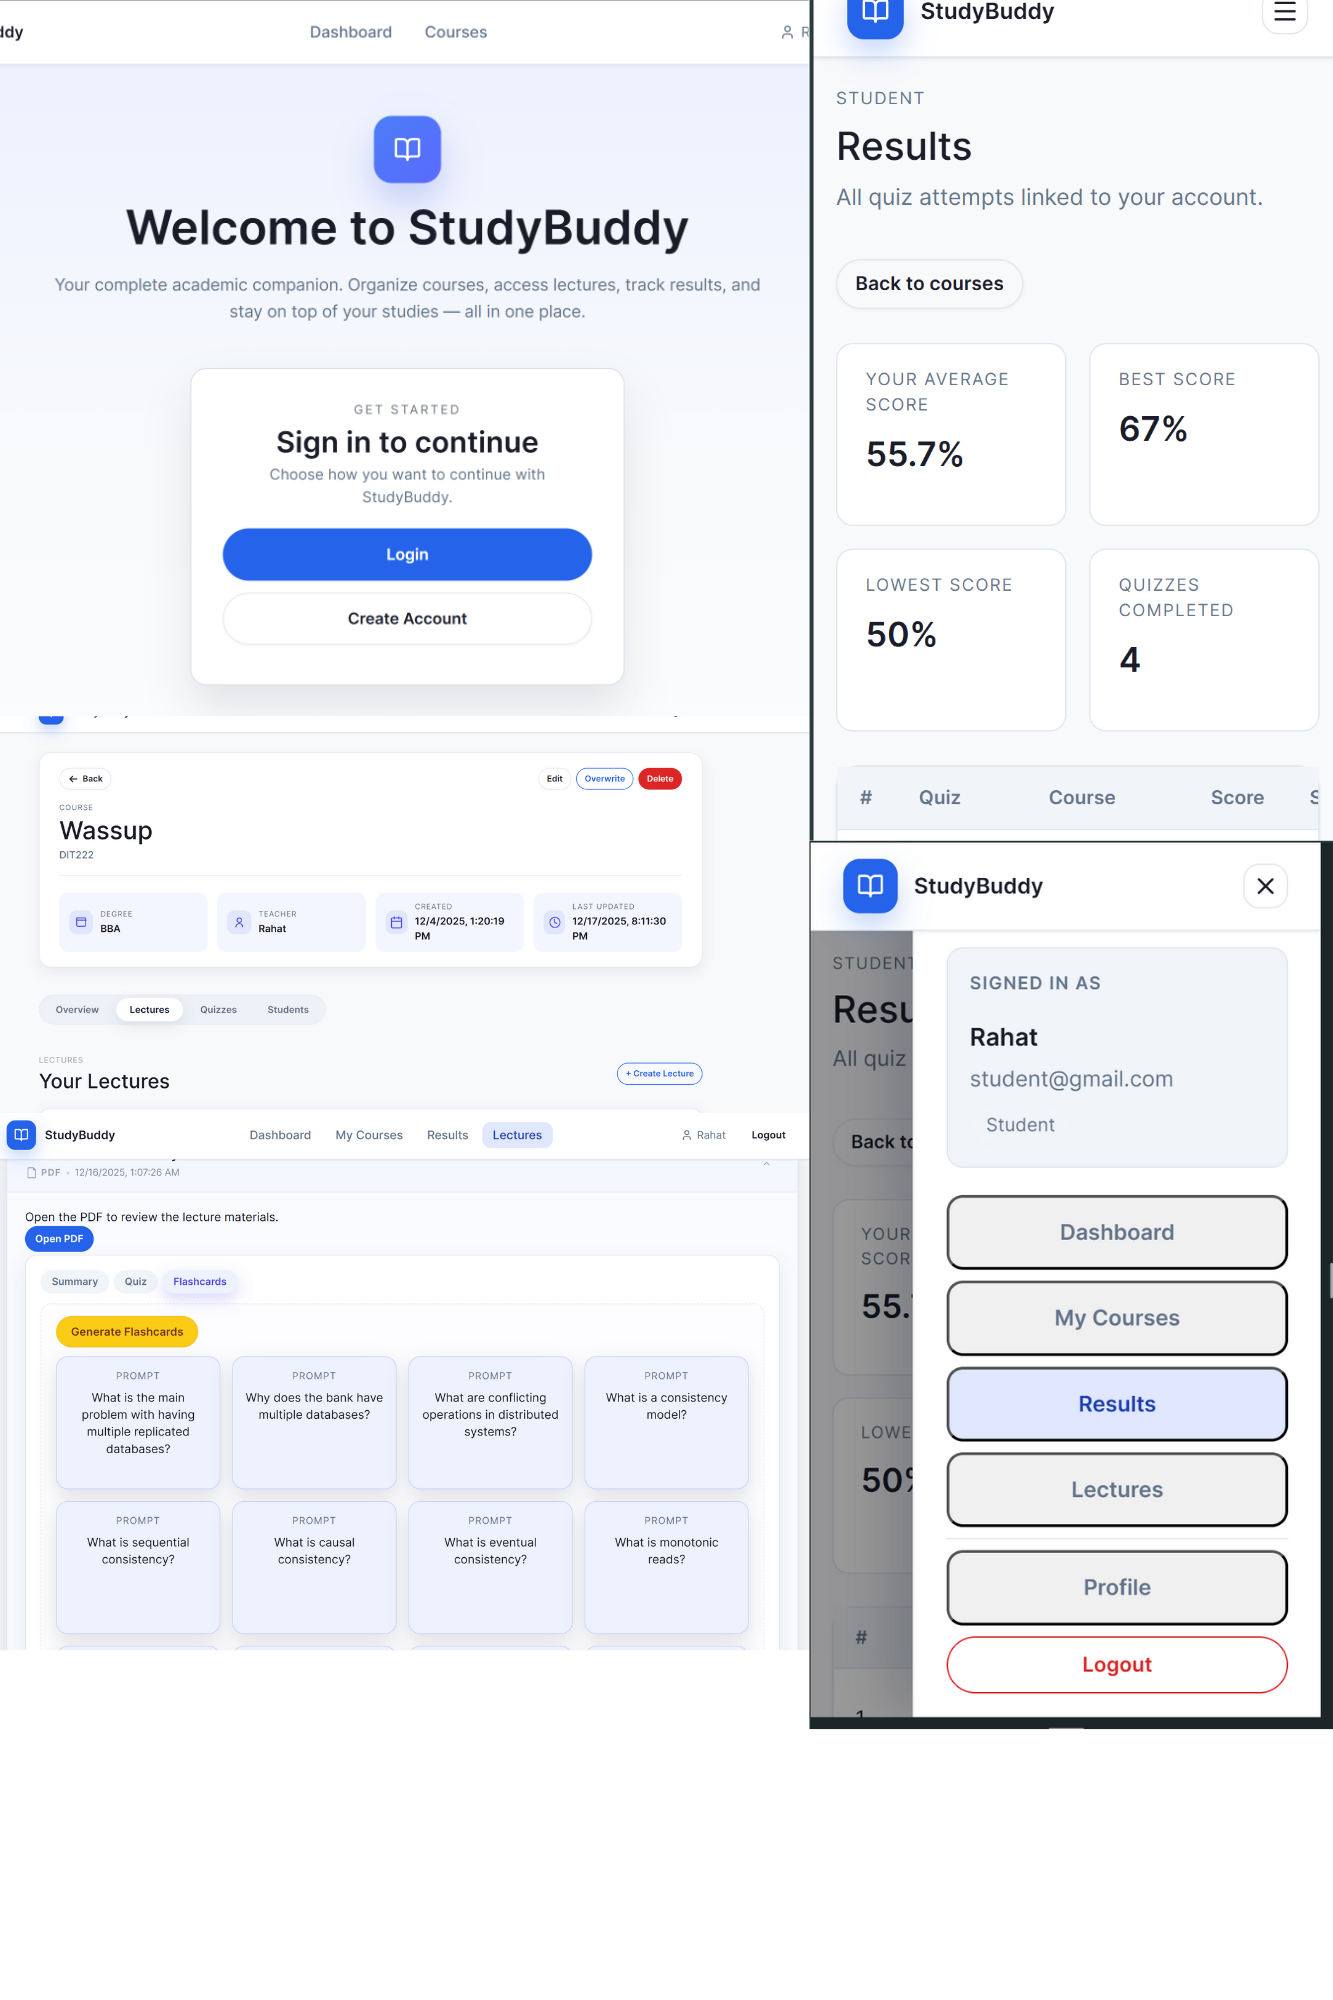
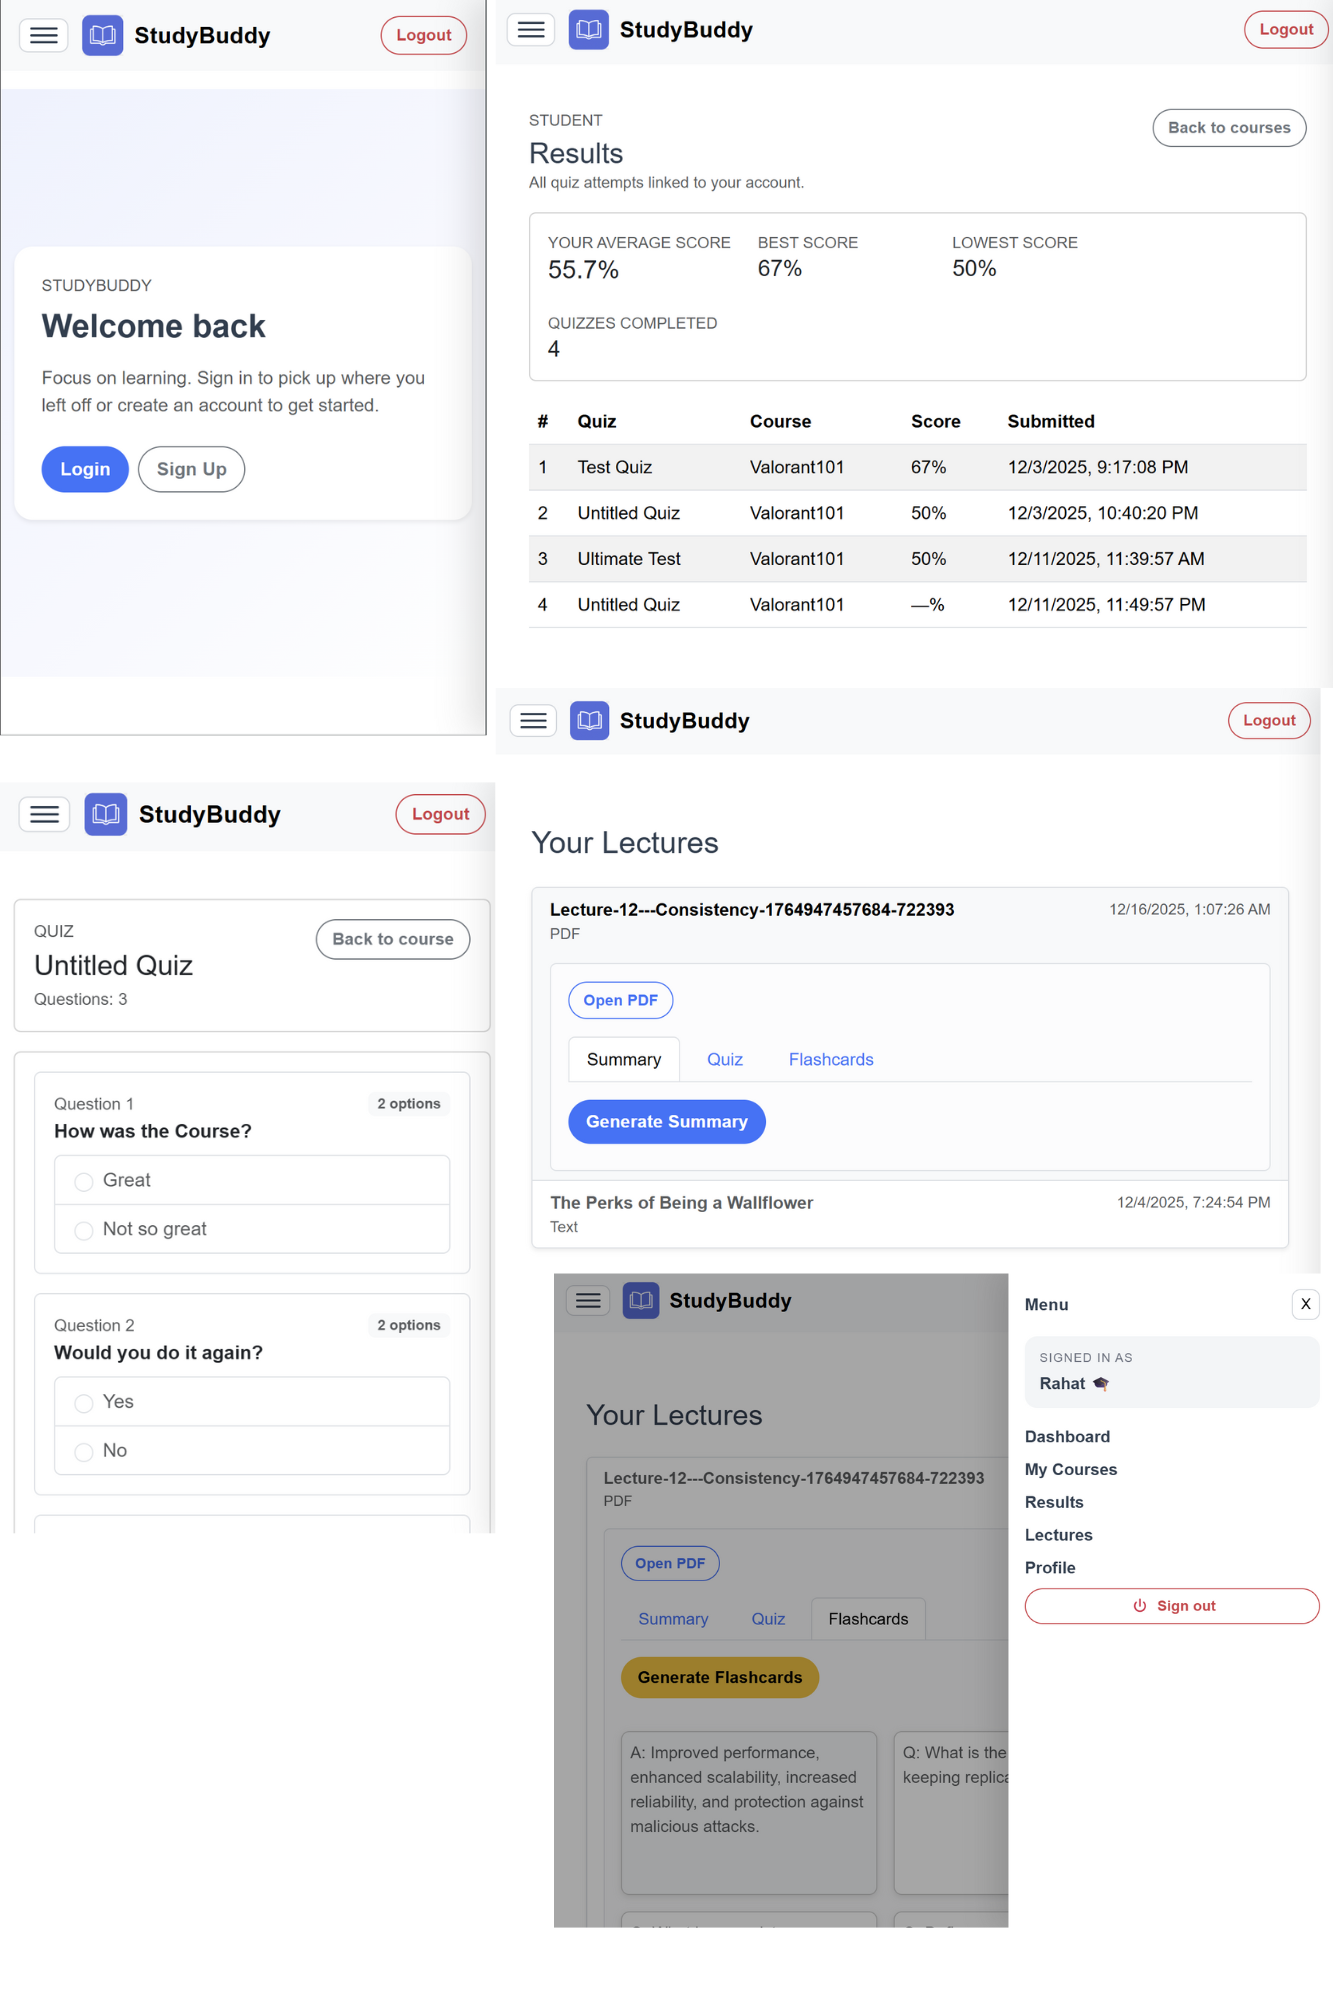
#42 Updated commets and minor quality of life updates.

diff --git a/client/src/views/courses/CreateCourse.vue b/client/src/views/courses/CreateCourse.vue
@@ -63,20 +63,19 @@ export default {
         const createRes = await CourseService.create(this.form)
         const created = createRes.data.data || createRes.data
 
-        // Auto-assign current logged-in teacher
+        // Auto- assigns the logged in user
         const userJson = localStorage.getItem('user')
         const user = userJson ? JSON.parse(userJson) : null
         if (user && user._id) {
           try {
             await CourseService.assignTeacher(created._id, user._id)
           } catch (errAssign) {
-            // if assignment fails, show a non-fatal warning
+            // shows a warning on failure
             console.warn('Assignment failed', errAssign)
-            // Optionally show user message
           }
         }
 
-        // Redirect to courses list
+        // Redirects to the course list
         this.$router.push({ name: 'Courses' })
       } catch (err) {
         const msg = err.response?.data?.message || 'Failed to create course'

diff --git a/client/src/App.vue b/client/src/App.vue
@@ -171,7 +171,7 @@ body,
   -webkit-font-smoothing: antialiased;
   -moz-osx-font-smoothing: grayscale;
   color: #2c3e50;
-  text-align: left; /* lets Bootstrap containers look normal */
+  text-align: left;
 }
 
 /* Flex layout: navbar + main content */
@@ -183,9 +183,9 @@ body,
 
 /* Navbar stays at top, content scrolls under it */
 .app-header {
-  position: sticky;  /* if you don't want sticky, change to `static` */
+  position: sticky;
   top: 0;
-  z-index: 1030;     /* above cards etc. */
+  z-index: 1030;
   display: flex;
   align-items: center;
   gap: 1.5rem;
@@ -379,7 +379,6 @@ body,
   overflow-y: auto;
 }
 
-/* Just in case */
 body {
   margin: 0;
 }
@@ -563,7 +562,7 @@ body {
   }
 }
 
-/* Responsive button text/icon helpers */
+/* Responsive button */
 .btn-text-short,
 .btn-icon {
   display: none;

diff --git a/client/src/views/NotesList.vue b/client/src/views/NotesList.vue
@@ -6,7 +6,7 @@
       <template v-for="item in lectures">
         <div
           v-if="item.type === 'pdf'"
-          :key="item._id"
+          :key="`pdf-${item._id}`"
           class="list-group-item list-group-item-action text-start w-100"
           role="button"
           tabindex="0"
@@ -105,7 +105,7 @@
 
         <div
           v-else
-          :key="item._id"
+          :key="`note-${item._id}`"
           class="list-group-item list-group-item-action text-start"
           role="button"
           tabindex="0"

diff --git a/client/src/views/courses/AllCoursesPage.vue b/client/src/views/courses/AllCoursesPage.vue
@@ -308,9 +308,9 @@ export default {
       }
     },
 
-    // called when user types; we only update suggestions here
+    // called when user types;
     onSearchInput() {
-      // suggestions derived from current list; fetch on Search click
+      //  fetch on Search click
     },
 
     selectSuggestion(course) {

diff --git a/client/src/router.js b/client/src/router.js
@@ -1,4 +1,3 @@
-// client/src/router.js
 import { createRouter, createWebHistory } from 'vue-router'
 import Home from './views/Home.vue'
 import Signup from './views/Signup.vue'

diff --git a/client/src/main.js b/client/src/main.js
@@ -1,5 +1,3 @@
-// import App from './App.vue'
-
 import { createApp } from 'vue'
 import { createBootstrap } from 'bootstrap-vue-next'
 import App from './App.vue'
